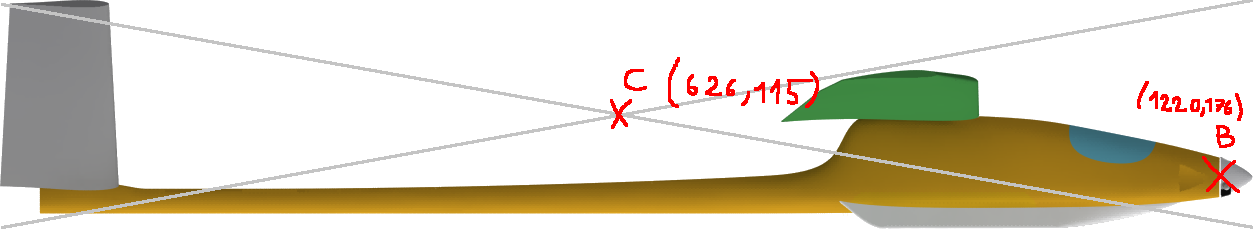
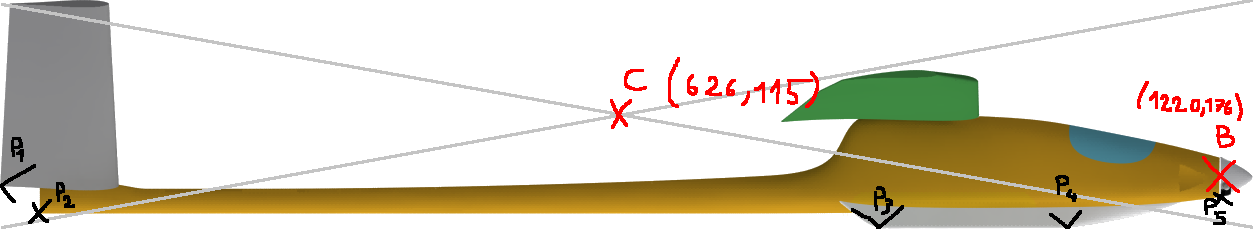
Little clean

diff --git a/Solide.py b/Solide.py
@@ -4,6 +4,7 @@ import numpy as np
 from Polaire import PolaireLineaire,PolaireTabulee
 from Parametres import ConstanteEnvironement as CE
 from Parametres import ParametresModele as PM
+from Parametres import ParametresSimulation as PS
 import Parametres as P
 from DataManagement import normalize
 
@@ -71,30 +72,38 @@ class Corps:
     def addCorpsRigide(self, cr):
         self.addAttachement(cr)
         self.corpsRigides.append(cr)
+
+    def deactivateAllCorpsRigide(self):
+        for cr in self.corpsRigides:
+            cr.reset()
+
+    def activateAllCorpsRigides(self, dt):
+        for cr in self.corpsRigides:
+            cr.activer()
+            cr.setDt(dt)
     
-    def updateCinematique(self,dt):
+    def corpsRigideOk(self):
+        for cr in self.corpsRigides:
+            if not cr.ok():
+                return False
+        return True
+
+    def applyAction(self, torseurAction, totMass, totInertie, dt):
+        torseurCin = self.getTorseurCinematique()
+        torseurAction = torseurAction.changePoint(torseurCin.vecteur)
+        torseurCin.setResultante(torseurCin.getResultante() + torseurAction.getResultante()*(dt/totMass))
+        torseurCin.setMoment(torseurCin.getMoment() + torseurAction.getMoment()*(dt/totInertie))
+    
+    def update(self,dt):
         
         torseurEfforts = self.computeTorseurEfforts().changePoint(self.torseurCinematique.vecteur) # C'est mieux de faire le PFD au CG...
-        #PFD
-        accX = torseurEfforts.resultante.x/self.getMasseTotal() #- self.torseurCinematique.moment*self.torseurCinematique.resultante.z
-        accZ = torseurEfforts.resultante.z/self.getMasseTotal() #+ self.torseurCinematique.moment*self.torseurCinematique.resultante.x
-        wpoint = torseurEfforts.moment/self.getInertieTotal()
-        vecteurAcce = E.Vecteur(accX,accZ,refAvion)
-        
-        #construction vecteur acceleration dans le refAvion
-        torseurAcc= T.Torseur(self.torseurCinematique.vecteur,vecteurAcce,wpoint)
-        
-        #torseurAcc= T.Torseur(self.torseurCinematique.vecteur,E.Vecteur(0,0,refAvion),0)
+        self.applyAction(torseurEfforts, self.getMasseTotal(), self.getInertieTotal(), dt)
+        self.updatePosAndAssiette(dt)
 
-        #update
-        dV = torseurAcc*dt
-        self.setTorseurCinematique(self.getTorseurCinematique() + dV)
-        self.move(self.torseurCinematique,dt)
-
-    def move(self,torseurCinematique,dt):
+    def updatePosAndAssiette(self,dt):
         #print("W = ",torseurCinematique.moment)
-        self.torseurCinematique.vecteur.ref.setOrigine(self.torseurCinematique.vecteur.ref.getOrigine() + torseurCinematique.resultante.projectionRef(refTerrestre)*dt)
-        self.torseurCinematique.vecteur.ref.setAngleAxeY(self.torseurCinematique.vecteur.ref.getAngleAxeY() + torseurCinematique.moment*dt )
+        self.torseurCinematique.vecteur.ref.setOrigine(self.torseurCinematique.vecteur.ref.getOrigine() + self.torseurCinematique.resultante.projectionRef(refTerrestre)*dt)
+        self.torseurCinematique.vecteur.ref.setAngleAxeY(self.torseurCinematique.vecteur.ref.getAngleAxeY() + self.torseurCinematique.moment*dt )
 
     def computeTorseurEfforts(self):
         torseurEfforts = self.getTorseurPoids().changePoint(self.torseurCinematique.vecteur)
@@ -186,15 +195,6 @@ class SurfacePortante(Attachements):
         vectAero = VecteurXaeroLocal + VecteurZaeroLocal
         forceAero = E.Vecteur(vectAero.projectionRef(refAvion).x*(-1*drag), vectAero.projectionRef(refAvion).z*lift, refAvion)
         
-        if forceAero.x > 0 :
-            print("alpha")
-            print(refAvion.getAngleAxeY() - VecteurXaeroLocal.arg())
-            print("vectAero")
-            print(vectAero.projectionRef(refAvion))
-            print ("drag")
-            print(drag)
-            print("forceAero")
-            print(forceAero)
         return T.Torseur(self.position.changeRef(refAvion),forceAero,moment)
         ####forceAeroRefSol = VecteurXaeroLocal*(-1*drag) + VecteurZaeroLocal*lift
         #print("forceAero")
@@ -278,7 +278,7 @@ class Empennage(SurfacePortante):
 # 4) Reset les corps rigides
 class CorpsRigide(Attachements):
     def __init__(self, position, father, referentielSol, epsilon):
-        super().__init__(self, position, 0, 0, father)
+        super().__init__(position, 0, 0, father)
         self._thisTurnTotalForce = 0
         self._epsilon = epsilon
         self._referentielSol = referentielSol
@@ -303,7 +303,7 @@ class CorpsRigide(Attachements):
         self._active = True
 
     def _underground(self):
-        return self.getPosition().changeRef(self._referentielSol).getZ()>0
+        return self.getPosition().changeRef(self._referentielSol).getZ()<=0
 
     def ok(self):
         if (not self._underground()) or (not self._active):
@@ -344,6 +344,17 @@ class Planeur():
         #self.empennageG = Empennage(E.Vecteur(PM.empennageG_x_Foyer,PM.empennageG_z_Foyer,refAvion), 0, 0, self.structure, PM.empennageG_S,PM.empennageG_CzA, PM.empennageG_Alpha_0, PM.empennageG_Cx0, PM.empennageG_k,0 ,PM.elevGMaxAnglePourcentage)
         self.empennageG = Empennage(E.Vecteur(PM.empennageG_x_BA,PM.empennageG_z_BA,refAvion),PolaireLineaire(PM.empennageG_CzA, PM.empennageG_Alpha_0,PM.empennageG_Cx0, PM.empennageG_k,0),PM.empennageG_S,PM.empennageG_corde,PM.elevGPourcentageCordeArticulee,PM.elevGPourcentageEnvergureArticulee,PM.elevGMaxAngle,father= self.structure)
         self.structure.addAttachement(self.empennageG)
+
+        self.p1 = CorpsRigide(E.Vecteur(PM.p1_x,PM.p1_z,refAvion),self.structure,refTerrestre,PS.maxAcceptablePenetrationSpeed)
+        self.structure.addCorpsRigide(self.p1)
+        self.p2 = CorpsRigide(E.Vecteur(PM.p2_x,PM.p2_z,refAvion),self.structure,refTerrestre,PS.maxAcceptablePenetrationSpeed)
+        self.structure.addCorpsRigide(self.p2)
+        self.p3 = CorpsRigide(E.Vecteur(PM.p3_x,PM.p3_z,refAvion),self.structure,refTerrestre,PS.maxAcceptablePenetrationSpeed)
+        self.structure.addCorpsRigide(self.p3)
+        self.p4 = CorpsRigide(E.Vecteur(PM.p4_x,PM.p4_z,refAvion),self.structure,refTerrestre,PS.maxAcceptablePenetrationSpeed)
+        self.structure.addCorpsRigide(self.p4)
+        self.p5 = CorpsRigide(E.Vecteur(PM.p5_x,PM.p5_z,refAvion),self.structure,refTerrestre,PS.maxAcceptablePenetrationSpeed)
+        self.structure.addCorpsRigide(self.p5)
 
     def diffuseDictRawInput(self,rawInputDict):
         self.propulseur.setThrottlePercent(rawInputDict["throttle"])

diff --git a/MAIN.py b/MAIN.py
@@ -58,7 +58,7 @@ class LaPhysiqueDeTom:
         # Grace au modele fraichement mis a jour, cette methode renvoie le nouveau flight data
         # Compute sera appelé en boucle par le PhysicThread
       
-        self.planeur.structure.updateCinematique(dt)
+        self.planeur.structure.update(dt)
 
         flightData.setPosAvion(self.planeur.getPosition())
         flightData.setAssiette(E.normalise(self.planeur.getAssiette()))
@@ -216,7 +216,7 @@ if __name__ == "__main__":
 
     referentielSol = Referentiel("referentielSol",0,Vecteur(0,0))
 
-    mddFlightData = MDD(FlightData(Vecteur(0,5,referentielSol),Vecteur(55,0,referentielSol), 0, 0), True)
+    mddFlightData = MDD(FlightData(Vecteur(0,5,referentielSol),Vecteur(20,0,referentielSol), 0, 0), True)
     mddRawInput = MDD(RawInput(0.30,0.30,0.50,0.50,0.100), False)
     mddPilotInput = MDD(PilotInput(0,0,0), False)
     mddAutoPilotInput = MDD(AutoPilotInput(Vecteur(0,0,referentielSol)), True)

diff --git a/Parametres.py b/Parametres.py
@@ -87,7 +87,24 @@ class ParametresModele:
     maxAutoPilotSpeed   = 200*TOMpS     #m/s
     maxAutoPilotZSpeed  = 20*TOMpS      #m/s
 
+    #parametres collision
+    p1_x = -1.5
+    p1_z = 0
+
+    p2_x = -1.4
+    p2_z = -0.1
+
+    p3_x = -0.2
+    p3_z = -0.2
+
+    p4_x = 0.1
+    p4_z = -0.2
+
+    p5_x = 0.2
+    p5_z = 0
+
 
 class ParametresSimulation:
     scriptToLoad = Scripts.scriptTest.ScriptExemple
+    maxAcceptablePenetrationSpeed = 0.001
 
